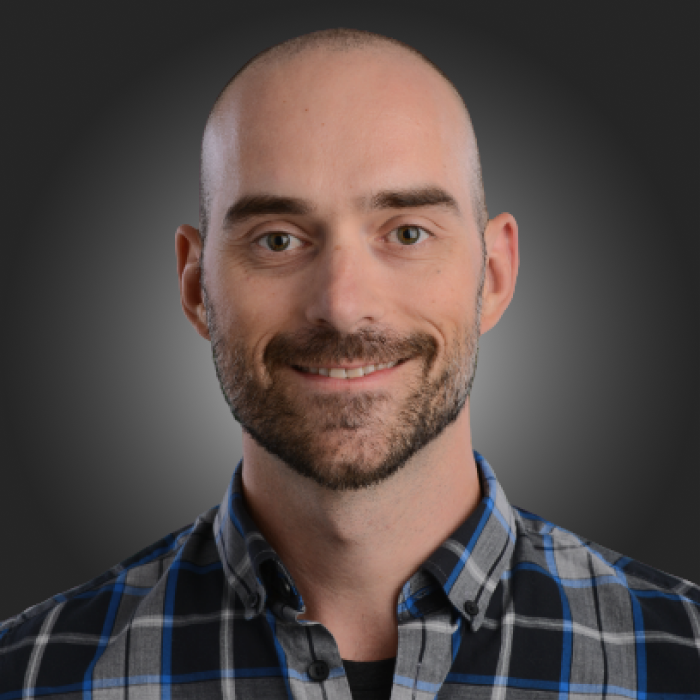
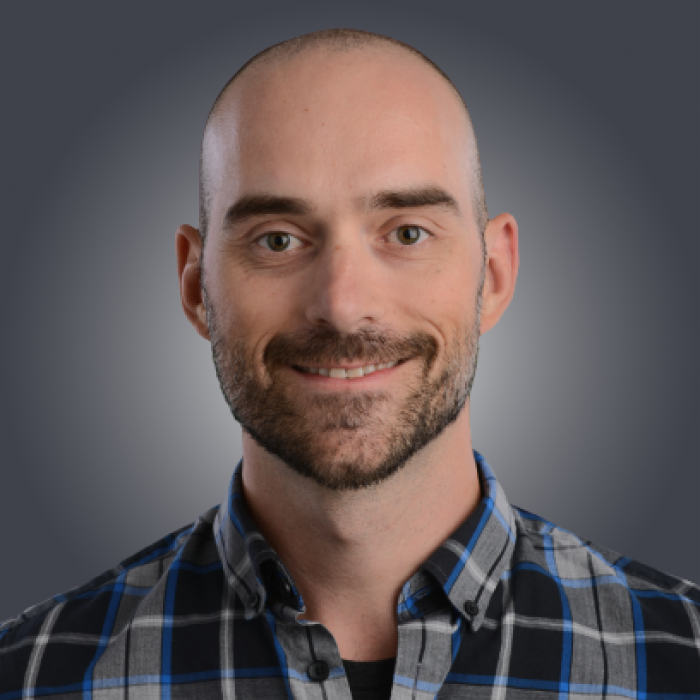
added custom branding

diff --git a/components/header.tsx b/components/header.tsx
@@ -2,26 +2,26 @@ import Link from 'next/link'
 
 const Header = () => {
   return (
-    <div className="bg-accent-1 border-b border-accent-2 text-gray-800">
+    <div className="bg-gradient-to-r from-space-dark via-space to-space-light text-lavender font-mono ">
       <h1 className="text-7xl text-center font-bold tracking-tighter leading-tight mx-auto pt-4">
         <Link href="/">
-          <a className="hover:text-gray-900 hover:underline">Kevin Legere</a>
+          <a className="hover:text-babyblue hover:underline">Kevin Legere</a>
         </Link>
       </h1>
       <nav className="flex flex-col items-center text-xl flex-wrap p-4">
         <div className="">
           <div className="space-x-8">
             <Link href="/">
-              <a className="hover:text-gray-900 hover:underline">About</a>
+              <a className="hover:text-babyblue hover:underline">About</a>
             </Link>
             <Link href="/blog">
-              <a className="hover:text-gray-900 hover:underline">Blog</a>
+              <a className="hover:text-babyblue hover:underline">Blog</a>
             </Link>
             <Link href="/work">
-              <a className="hover:text-gray-900 hover:underline">My Work</a>
+              <a className="hover:text-babyblue hover:underline">My Work</a>
             </Link>
             <Link href="/contact">
-              <a className="hover:text-gray-900 hover:underline">Contact</a>
+              <a className="hover:text-babyblue hover:underline">Contact</a>
             </Link>
           </div>
         </div>

diff --git a/components/footer.tsx b/components/footer.tsx
@@ -1,25 +1,22 @@
 import Container from './container'
+import Image from 'next/image'
+import Link from 'next/link'
 
 const Footer = () => {
   return (
-    <footer className="bg-accent-1 border-t border-accent-2">
+    <footer className="bg-babyblue bg-opacity-50 border-t border-babyblue">
       <Container>
-        <div className="py-12 flex flex-col items-center">
-          <h3 className="text-4xl font-bold tracking-tighter leading-tight text-center mb-10">
-            Follow me.
-          </h3>
-          <div className="">
-            <a
-              href="https://nextjs.org/docs/basic-features/pages"
-              className="mx-3 bg-black hover:bg-white hover:text-black border border-black text-white font-bold py-3 px-12 duration-200 transition-colors mb-6"
-            >
-              Read Documentation
-            </a>
-          </div>
+        <div className="py-12 flex flex-col items-center text-space-dark">
+          <a href="https://twitter.com/KevinGLegere" target="_blank">
+            <h3 className="text-4xl hover:underline hover:opacity-80 font-bold tracking-tighter leading-tight text-center mb-4">
+              Follow me on twitter for nonsense.
+            </h3>
+          </a>
+          <h4>Made with love using next.js, tailwind and typescript</h4>
         </div>
       </Container>
     </footer>
-  )
+  );
 }
 
 export default Footer

diff --git a/tailwind.config.js b/tailwind.config.js
@@ -1,33 +1,40 @@
 module.exports = {
-  purge: ['./components/**/*.tsx', './pages/**/*.tsx'],
+  purge: ["./components/**/*.tsx", "./pages/**/*.tsx"],
   theme: {
     extend: {
       colors: {
-        'accent-1': '#FAFAFA',
-        'accent-2': '#EAEAEA',
-        'accent-7': '#333',
-        success: '#0070f3',
-        cyan: '#79FFE1',
+        "accent-1": "#D8D5DB",
+        "accent-2": "#ADACB5",
+        "accent-7": "#333",
+        success: "#0070f3",
+        cyan: "#79FFE1",
+        space: {
+          light: "#4A516D",
+          DEFAULT: "#2D3142",
+          dark: "#191B24",
+        },
+        lavender: "#EAE8FF",
+        babyblue: "#B0D7FF",
       },
       spacing: {
-        28: '7rem',
+        28: "7rem",
       },
       letterSpacing: {
-        tighter: '-.04em',
+        tighter: "-.04em",
       },
       lineHeight: {
         tight: 1.2,
       },
       fontSize: {
-        '5xl': '2.5rem',
-        '6xl': '2.75rem',
-        '7xl': '4.5rem',
-        '8xl': '6.25rem',
+        "5xl": "2.5rem",
+        "6xl": "2.75rem",
+        "7xl": "4.5rem",
+        "8xl": "6.25rem",
       },
       boxShadow: {
-        small: '0 5px 10px rgba(0, 0, 0, 0.12)',
-        medium: '0 8px 30px rgba(0, 0, 0, 0.12)',
+        small: "0 5px 10px rgba(0, 0, 0, 0.12)",
+        medium: "0 8px 30px rgba(0, 0, 0, 0.12)",
       },
     },
   },
-}
+};

diff --git a/pages/blog.tsx b/pages/blog.tsx
@@ -1,7 +1,5 @@
 import Container from "../components/container";
-import MoreStories from "../components/more-stories";
-import HeroPost from "../components/hero-post";
-import Intro from "../components/intro";
+import AllStories from "../components/all-stories";
 import Layout from "../components/layout";
 import { getAllPosts } from "../lib/api";
 import Head from "next/head";
@@ -11,33 +9,22 @@ type Props = {
   allPosts: Post[];
 };
 
-const Index = ({ allPosts }: Props) => {
-  const heroPost = allPosts[0];
-  const morePosts = allPosts.slice(1);
+const Blog = ({ allPosts }: Props) => {
   return (
     <>
       <Layout>
         <Head>
-          <title>Blog</title>
+          <title>Blog | Kevin Legere</title>
         </Head>
         <Container>
-          {heroPost && (
-            <HeroPost
-              title={heroPost.title}
-              coverImage={heroPost.coverImage}
-              date={heroPost.date}
-              slug={heroPost.slug}
-              excerpt={heroPost.excerpt}
-            />
-          )}
-          {morePosts.length > 0 && <MoreStories posts={morePosts} />}
+          <AllStories posts={allPosts} />
         </Container>
       </Layout>
     </>
   );
 };
 
-export default Index;
+export default Blog;
 
 export const getStaticProps = async () => {
   const allPosts = getAllPosts([

diff --git a/pages/posts/[slug].tsx b/pages/posts/[slug].tsx
@@ -2,7 +2,6 @@ import { useRouter } from 'next/router'
 import ErrorPage from 'next/error'
 import Container from '../../components/container'
 import PostBody from '../../components/post-body'
-import Header from '../../components/header'
 import PostHeader from '../../components/post-header'
 import Layout from '../../components/layout'
 import { getPostBySlug, getAllPosts } from '../../lib/api'
@@ -17,7 +16,7 @@ type Props = {
   preview?: boolean
 }
 
-const Post = ({ post, morePosts, preview }: Props) => {
+const Post = ({ post, preview }: Props) => {
   const router = useRouter()
   if (!router.isFallback && !post?.slug) {
     return <ErrorPage statusCode={404} />
@@ -29,7 +28,7 @@ const Post = ({ post, morePosts, preview }: Props) => {
           <PostTitle>Loading…</PostTitle>
         ) : (
           <>
-            <article className="mb-32">
+            <article className="">
               <Head>
                 <title>
                   {post.title} | Kevin Legere

diff --git a/components/intro.tsx b/components/intro.tsx
@@ -1,19 +1,17 @@
-import { CMS_NAME } from '../lib/constants'
 import Image from 'next/image'
 
 const Intro = () => {
   return (
     <section className="flex-col flex items-center mx-auto">
-      <img
-        src="/images/profile.jpg"
+      <Image
+        src="/images/profile_2.png"
         className="rounded-full max-w-md shadow-md"
-        height="max-h"
-        width="max-w"
-        alt="Kevin"
-      ></img>
-      <h2 className="text-center text-xl text-gray-500 mt-5 max-w-xl">
-        Hi, my name is Kevin. I spend my time making the world a better place
-        with thoughtful products and design.
+        height={500}
+        width={500}
+        alt="Kevin Profile Picture"
+      ></Image>
+      <h2 className="font-mono text-center text-2xl text-space-light mt-5 max-w-2xl">
+        I'm an entreprenuer, product leader and musician with a knack for solving complex problems. 
       </h2>
     </section>
   );

diff --git a/components/all-stories.tsx b/components/all-stories.tsx
@@ -5,13 +5,10 @@ type Props = {
   posts: Post[]
 }
 
-const MoreStories = ({ posts }: Props) => {
+const AllStories = ({ posts }: Props) => {
   return (
     <section>
-      <h2 className="mb-8 text-6xl md:text-7xl font-bold tracking-tighter leading-tight">
-        More Stories
-      </h2>
-      <div className="grid grid-cols-1 md:grid-cols-2 md:gap-x-16 lg:gap-x-32 gap-y-20 md:gap-y-32 mb-32">
+      <div className="grid grid-cols-1">
         {posts.map((post) => (
           <PostPreview
             key={post.slug}
@@ -27,4 +24,4 @@ const MoreStories = ({ posts }: Props) => {
   )
 }
 
-export default MoreStories
+export default AllStories

diff --git a/components/post-preview.tsx b/components/post-preview.tsx
@@ -18,13 +18,13 @@ const PostPreview = ({
   slug,
 }: Props) => {
   return (
-    <div>
+    <div className="border-b border-space-light mb-4">
       <div className="mb-5">
         <CoverImage slug={slug} title={title} src={coverImage} />
       </div>
-      <h3 className="text-3xl mb-3 leading-snug">
+      <h3 className="text-3xl mb-3 leading-snug text-space-dark">
         <Link as={`/posts/${slug}`} href="/posts/[slug]">
-          <a className="hover:underline">{title}</a>
+          <a className="hover:underline hover:text-space">{title}</a>
         </Link>
       </h3>
       <div className="text-lg text-gray-800 font-thin mb-4">

diff --git a/components/layout.tsx b/components/layout.tsx
@@ -6,11 +6,11 @@ type Props = {
   children: React.ReactNode
 }
 
-const Layout = ({ preview, children }: Props) => {
+const Layout = ({children }: Props) => {
   return (
     <>
      <Header />
-      <div className="py-8">
+      <div className="py-8 bg-lavender bg-opacity-50">
         <main>{children}</main>
       </div>
       <Footer />

diff --git a/components/cover-image.tsx b/components/cover-image.tsx
@@ -12,7 +12,7 @@ const CoverImage = ({ title, src, slug }: Props) => {
     <img
       src={src}
       alt={`Cover Image for ${title}`}
-      className={cn('shadow-small', {
+      className={cn('shadow-small rounded-md', {
         'hover:shadow-medium transition-shadow duration-200': slug,
       })}
     />

diff --git a/components/container.tsx b/components/container.tsx
@@ -5,7 +5,7 @@ type Props = {
 }
 
 const Container: FunctionComponent = ({ children }: Props) => {
-  return <div className="container mx-auto py-4 px-5">{children}</div>
+  return <div className="container mx-auto max-w-4xl py-4 px-5">{children}</div>
 }
 
 export default Container
